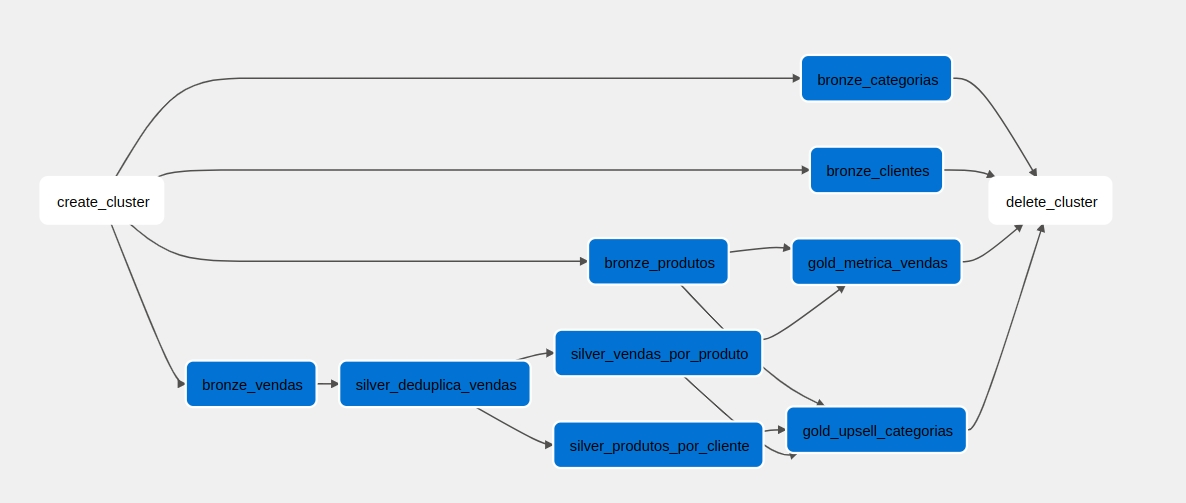
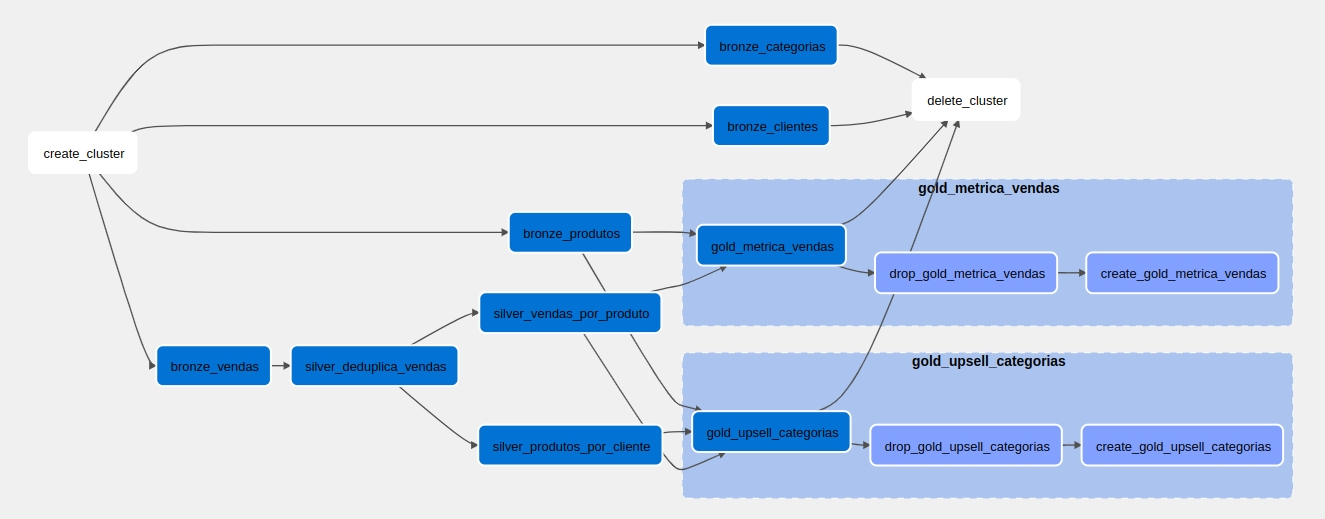
big query tables

diff --git a/dags/mainflow.py b/dags/mainflow.py
@@ -1,13 +1,16 @@
 from datetime import datetime
 from airflow import DAG
 from airflow.models import Variable
-
-# from airflow.utils.task_group import TaskGroup
+from airflow.utils.task_group import TaskGroup
 from airflow.providers.google.cloud.operators.dataproc import (
     DataprocSubmitPySparkJobOperator,
     DataprocCreateClusterOperator,
     DataprocDeleteClusterOperator,
     ClusterGenerator,
+)
+from airflow.providers.google.cloud.operators.bigquery import (
+    BigQueryCreateExternalTableOperator,
+    BigQueryDeleteTableOperator,
 )
 
 
@@ -77,7 +80,7 @@ with dag:
             "--mode",
             "cluster",
             "--datetime",
-            prev_execution_date, # passa como arg o dia 1 do mês anterior, que já está fechado
+            prev_execution_date,  # passa como arg o dia 1 do mês anterior, que já está fechado
         ],
         cluster_name="mainflow",
         region="southamerica-east1",
@@ -197,43 +200,99 @@ with dag:
         region="southamerica-east1",
     )
 
-    gold_metrica_vendas = DataprocSubmitPySparkJobOperator(
-        task_id="gold_metrica_vendas",
-        main="gs://mercafacil/eggs/launcher.py",
-        pyfiles=[
-            "gs://mercafacil/eggs/mercadata-0.0.1-py3.9.egg",
-            "gs://mercafacil/eggs/launcher.py",
-        ],
-        arguments=[
-            "gold",
-            "MetricaVendas",
-            "--env",
-            env,
-            "--mode",
-            "cluster",
-        ],
-        cluster_name="mainflow",
-        region="southamerica-east1",
-    )
+    with TaskGroup(group_id="gold_metrica_vendas") as gold_metrica_vendas:
 
-    gold_upsell_categorias = DataprocSubmitPySparkJobOperator(
-        task_id="gold_upsell_categorias",
-        main="gs://mercafacil/eggs/launcher.py",
-        pyfiles=[
-            "gs://mercafacil/eggs/mercadata-0.0.1-py3.9.egg",
-            "gs://mercafacil/eggs/launcher.py",
-        ],
-        arguments=[
-            "gold",
-            "UpSellCategoria",
-            "--env",
-            env,
-            "--mode",
-            "cluster",
-        ],
-        cluster_name="mainflow",
-        region="southamerica-east1",
-    )
+        gold_metrica_vendas = DataprocSubmitPySparkJobOperator(
+            task_id="gold_metrica_vendas",
+            main="gs://mercafacil/eggs/launcher.py",
+            pyfiles=[
+                "gs://mercafacil/eggs/mercadata-0.0.1-py3.9.egg",
+                "gs://mercafacil/eggs/launcher.py",
+            ],
+            arguments=[
+                "gold",
+                "MetricaVendas",
+                "--env",
+                env,
+                "--mode",
+                "cluster",
+            ],
+            cluster_name="mainflow",
+            region="southamerica-east1",
+        )
+
+        drop_gold_metrica_vendas = BigQueryDeleteTableOperator(
+            task_id="drop_gold_metrica_vendas",
+            deletion_dataset_table="mercadata.gold.metrica_vendas",
+            ignore_if_missing=True,
+        )
+
+        create_gold_metrica_vendas = BigQueryCreateExternalTableOperator(
+            task_id="create_gold_metrica_vendas",
+            table_resource={
+                "tableReference": {
+                    "projectId": "mercadata",
+                    "datasetId": "gold",
+                    "tableId": "metrica_vendas",
+                },
+                "externalDataConfiguration": {
+                    "sourceFormat": "PARQUET",
+                    "sourceUris": [
+                        "gs://mercafacil/data/prd/gold/metricas_de_vendas_por_produto"
+                    ],
+                    "autodetect": True,
+                },
+            },
+        )
+
+        [gold_metrica_vendas >> drop_gold_metrica_vendas >> create_gold_metrica_vendas]
+
+    with TaskGroup(group_id="gold_upsell_categorias") as gold_upsell_categorias:
+
+        gold_upsell_categorias = DataprocSubmitPySparkJobOperator(
+            task_id="gold_upsell_categorias",
+            main="gs://mercafacil/eggs/launcher.py",
+            pyfiles=[
+                "gs://mercafacil/eggs/mercadata-0.0.1-py3.9.egg",
+                "gs://mercafacil/eggs/launcher.py",
+            ],
+            arguments=[
+                "gold",
+                "UpSellCategoria",
+                "--env",
+                env,
+                "--mode",
+                "cluster",
+            ],
+            cluster_name="mainflow",
+            region="southamerica-east1",
+        )
+
+        drop_gold_upsell_categorias = BigQueryDeleteTableOperator(
+            task_id="drop_gold_upsell_categorias",
+            deletion_dataset_table="mercadata.gold.upsell_categorias",
+            ignore_if_missing=True,
+        )
+
+        create_gold_upsell_categorias = BigQueryCreateExternalTableOperator(
+            task_id="create_gold_upsell_categorias",
+            table_resource={
+                "tableReference": {
+                    "projectId": "mercadata",
+                    "datasetId": "gold",
+                    "tableId": "upsell_categorias",
+                },
+                "externalDataConfiguration": {
+                    "sourceFormat": "PARQUET",
+                    "sourceUris": [
+                        "gs://mercafacil/data/prd/gold/top_5_produtos_para_o_cliente"
+                    ],
+                    "autodetect": True,
+                },
+            },
+        )
+
+        [gold_upsell_categorias >> drop_gold_upsell_categorias >> create_gold_upsell_categorias]
 
     delete_cluster = DataprocDeleteClusterOperator(
         task_id="delete_cluster",
